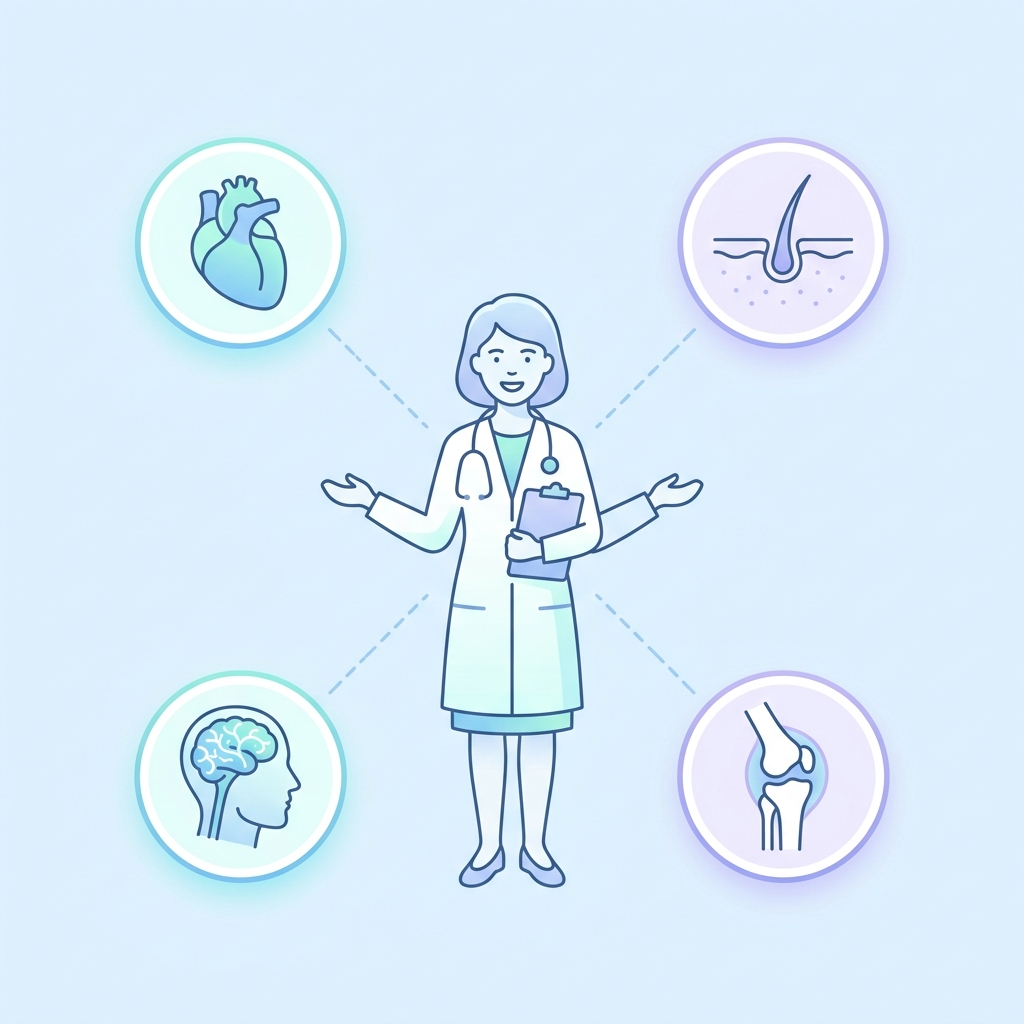
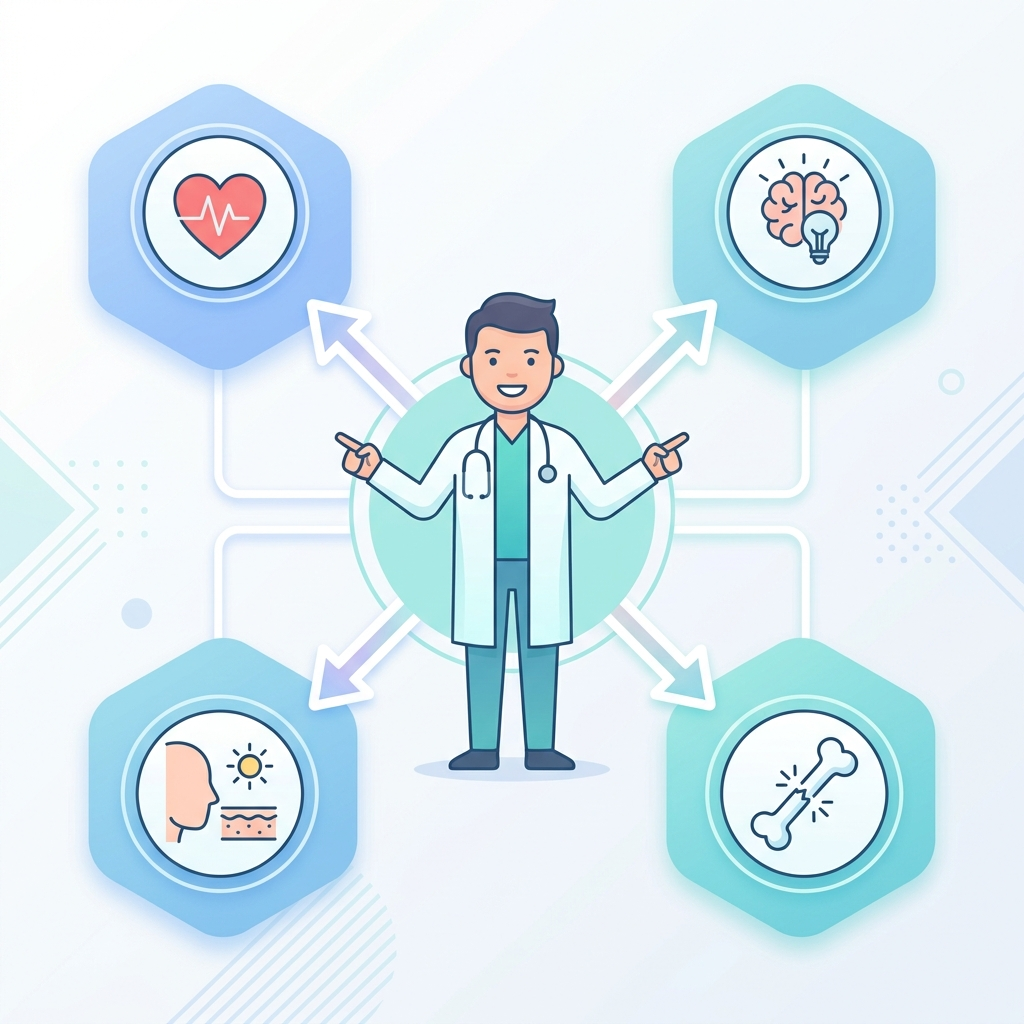
feat: update slide layouts with interactive widgets and images, and set sidebar to hidden by default

diff --git a/index.html b/index.html
@@ -39,7 +39,7 @@
   </header>
 
   <!-- Master Layout -->
-  <div class="app-container" id="main-layout">
+  <div class="app-container fullscreen-slides" id="main-layout">
     
     <!-- Presentation Viewport (Left Side) -->
     <main class="presentation-view">
@@ -88,20 +88,7 @@
             </div>
           </div>
           <div class="slide-right">
-            <div class="interactive-flow-widget">
-              <div class="flow-step" onclick="highlightWidgetStep(1)">
-                <span class="step-badge">1</span>
-                <span class="step-text">Évaluation des symptômes</span>
-              </div>
-              <div class="flow-step" onclick="highlightWidgetStep(2)">
-                <span class="step-badge">2</span>
-                <span class="step-text">Diagnostic de la maladie</span>
-              </div>
-              <div class="flow-step" onclick="highlightWidgetStep(3)">
-                <span class="step-badge">3</span>
-                <span class="step-text">Prescription & conseils</span>
-              </div>
-            </div>
+            <img src="images/doctor_responsibilities.png" alt="Médecin de famille rédigeant une ordonnance dans son bureau">
           </div>
         </section>
 
@@ -122,10 +109,7 @@
             </div>
           </div>
           <div class="slide-right">
-            <div style="font-size: 5rem; text-align: center; color: var(--color-primary); display: flex; flex-direction: column; align-items: center; justify-content: center; height:100%;">
-              <i data-lucide="shield-check" style="width: 100px; height: 100px; stroke-width: 1.5;"></i>
-              <span style="font-size: 1.25rem; font-weight: 700; color: var(--text-primary); margin-top: 1rem;">Prévenir & Guérir</span>
-            </div>
+            <img src="images/prevention_followup.png" alt="Médecin de famille administrant un vaccin à un patient">
           </div>
         </section>
 
@@ -179,10 +163,28 @@
               <p>Le temps d'attente sur la liste gouvernementale peut parfois être très long (plusieurs mois ou années).</p>
             </div>
           </div>
-          <div class="slide-right">
-            <div style="font-size: 5rem; text-align: center; color: var(--color-warning); display: flex; flex-direction: column; align-items: center; justify-content: center; height:100%;">
-              <i data-lucide="hourglass" style="width: 100px; height: 100px; stroke-width: 1.5; animation: spin 8s linear infinite;"></i>
-              <span style="font-size: 1.25rem; font-weight: 700; color: var(--text-primary); margin-top: 1rem;">Temps d'attente</span>
+          <div class="slide-right" style="flex-direction: column; gap: 0.5rem; justify-content: center;">
+            <div class="interactive-flow-widget" style="background: var(--bg-glass); border: 1px solid var(--border-glass); padding: 0.75rem; border-radius: var(--radius-md); box-shadow: var(--shadow-glass); width: 100%;">
+              <div style="font-weight: 700; color: var(--text-primary); margin-bottom: 0.5rem; font-size: 0.85rem; text-align: center; font-family: var(--font-heading);">Guichet d'accès (GAMF)</div>
+              <div style="background: var(--color-primary-light); border-radius: var(--radius-sm); padding: 0.4rem; font-size: 0.75rem; display: flex; justify-content: space-between; align-items: center; border: 1px solid var(--border-glass); margin-bottom: 0.4rem;">
+                <span style="color: var(--text-primary); font-weight: 500;">Statut d'inscription</span>
+                <span style="background: var(--color-warning); color: #78350f; font-weight: 700; padding: 2px 8px; border-radius: 10px; font-size: 0.65rem;">En attente d'attribution</span>
+              </div>
+              <div style="display: flex; flex-direction: column; gap: 0.35rem;">
+                <div style="font-size: 0.7rem; color: var(--text-muted); font-weight: 700; text-transform: uppercase; margin-bottom: 0.15rem;">Options alternatives au Québec</div>
+                <div style="display: flex; justify-content: space-between; font-size: 0.75rem; padding: 0.3rem 0.2rem; border-bottom: 1px solid var(--border-glass);">
+                  <span>Guichet d'accès (GAP)</span>
+                  <span style="color: var(--color-success); font-weight: 600;">Orientation 811</span>
+                </div>
+                <div style="display: flex; justify-content: space-between; font-size: 0.75rem; padding: 0.3rem 0.2rem; border-bottom: 1px solid var(--border-glass);">
+                  <span>Clinique Sans Rendez-vous</span>
+                  <span style="color: var(--color-accent); font-weight: 600;">Portail Clic Santé</span>
+                </div>
+                <div style="display: flex; justify-content: space-between; font-size: 0.75rem; padding: 0.3rem 0.2rem;">
+                  <span>Info-Santé / Info-Social</span>
+                  <span style="color: var(--color-primary); font-weight: 600;">Ligne 811</span>
+                </div>
+              </div>
             </div>
           </div>
         </section>
@@ -221,9 +223,28 @@
             </ul>
           </div>
           <div class="slide-right">
-            <div style="font-size: 5rem; text-align: center; color: var(--color-success); display: flex; flex-direction: column; align-items: center; justify-content: center; height:100%;">
-              <i data-lucide="users" style="width: 100px; height: 100px; stroke-width: 1.5;"></i>
-              <span style="font-size: 1.25rem; font-weight: 700; color: var(--text-primary); margin-top: 1rem;">Santé Communautaire</span>
+            <div style="display: flex; flex-direction: column; gap: 0.5rem; width: 100%;">
+              <div style="background: rgba(16, 185, 129, 0.08); border: 1px solid rgba(16, 185, 129, 0.2); border-radius: var(--radius-md); padding: 0.5rem 0.75rem; display: flex; align-items: center; gap: 0.75rem;">
+                <i data-lucide="shield" style="color: var(--color-success); width: 22px; height: 22px; flex-shrink: 0;"></i>
+                <div style="text-align: left;">
+                  <h4 style="font-size: 0.8rem; font-weight: 700; color: var(--text-primary);">Prévention précoce</h4>
+                  <p style="font-size: 0.7rem; color: var(--text-secondary);">Détecter et soigner rapidement les maladies.</p>
+                </div>
+              </div>
+              <div style="background: rgba(14, 165, 233, 0.08); border: 1px solid rgba(14, 165, 233, 0.2); border-radius: var(--radius-md); padding: 0.5rem 0.75rem; display: flex; align-items: center; gap: 0.75rem;">
+                <i data-lucide="heart-pulse" style="color: var(--color-accent); width: 22px; height: 22px; flex-shrink: 0;"></i>
+                <div style="text-align: left;">
+                  <h4 style="font-size: 0.8rem; font-weight: 700; color: var(--text-primary);">Suivi personnalisé</h4>
+                  <p style="font-size: 0.7rem; color: var(--text-secondary);">Une relation de confiance patient-médecin durable.</p>
+                </div>
+              </div>
+              <div style="background: rgba(139, 92, 246, 0.08); border: 1px solid rgba(139, 92, 246, 0.2); border-radius: var(--radius-md); padding: 0.5rem 0.75rem; display: flex; align-items: center; gap: 0.75rem;">
+                <i data-lucide="git-merge" style="color: var(--color-accent-purple); width: 22px; height: 22px; flex-shrink: 0;"></i>
+                <div style="text-align: left;">
+                  <h4 style="font-size: 0.8rem; font-weight: 700; color: var(--text-primary);">Orientation d'experts</h4>
+                  <p style="font-size: 0.7rem; color: var(--text-secondary);">Accès coordonné et efficace aux spécialistes.</p>
+                </div>
+              </div>
             </div>
           </div>
         </section>
@@ -243,9 +264,14 @@
             </div>
           </div>
           <div class="slide-right">
-            <div style="font-size: 5rem; text-align: center; color: var(--color-primary); display: flex; flex-direction: column; align-items: center; justify-content: center; height:100%;">
-              <i data-lucide="message-square" style="width: 100px; height: 100px; stroke-width: 1.5;"></i>
-              <span style="font-size: 1.15rem; font-weight: 700; color: var(--text-primary); margin-top: 1rem;">Questions / Réponses</span>
+            <div style="display: flex; flex-direction: column; align-items: center; justify-content: center; height: 100%; width: 100%;">
+              <div style="background: var(--bg-glass); border: 1px solid var(--border-glass); border-radius: var(--radius-lg); padding: 1.25rem; text-align: center; box-shadow: var(--shadow-glass); width: 100%; max-width: 260px;">
+                <div style="background: var(--color-primary-light); color: var(--color-primary); width: 50px; height: 50px; border-radius: 50%; display: flex; align-items: center; justify-content: center; margin: 0 auto 0.75rem;">
+                  <i data-lucide="help-circle" style="width: 28px; height: 28px;"></i>
+                </div>
+                <h3 style="font-family: var(--font-heading); font-size: 1.1rem; color: var(--text-primary); margin-bottom: 0.25rem;">Des questions ?</h3>
+                <p style="font-size: 0.75rem; color: var(--text-secondary); line-height: 1.4;">C'est le moment d'échanger avec votre auditoire et de partager vos impressions.</p>
+              </div>
             </div>
           </div>
         </section>

diff --git a/style.css b/style.css
@@ -197,10 +197,10 @@ header {
   left: 0;
   width: 100%;
   height: 100%;
-  padding: 3rem;
+  padding: 1.5rem 2.25rem;
   display: grid;
-  grid-template-columns: 1.2fr 0.8fr;
-  gap: 2.5rem;
+  grid-template-columns: 1.1fr 0.9fr;
+  gap: 1.5rem;
   opacity: 0;
   visibility: hidden;
   transform: translateY(20px);
@@ -238,7 +238,7 @@ header {
   display: flex;
   flex-direction: column;
   justify-content: center;
-  gap: 1.25rem;
+  gap: 0.65rem;
   overflow-y: auto;
   padding-right: 0.5rem;
 }
@@ -262,14 +262,14 @@ header {
 /* Slide Content Typography */
 .slide h2 {
   font-family: var(--font-heading);
-  font-size: 2.25rem;
+  font-size: 1.75rem;
   font-weight: 800;
-  line-height: 1.25;
+  line-height: 1.2;
   color: var(--text-primary);
   background: linear-gradient(135deg, var(--color-primary), var(--color-accent));
   -webkit-background-clip: text;
   -webkit-text-fill-color: transparent;
-  margin-bottom: 0.5rem;
+  margin-bottom: 0.25rem;
 }
 
 .slide-title-layout h2 {
@@ -298,14 +298,14 @@ header {
   list-style: none;
   display: flex;
   flex-direction: column;
-  gap: 1rem;
+  gap: 0.5rem;
 }
 
 .slide li {
   position: relative;
-  padding-left: 2rem;
-  font-size: 1.1rem;
-  line-height: 1.5;
+  padding-left: 1.5rem;
+  font-size: 0.95rem;
+  line-height: 1.4;
   color: var(--text-secondary);
 }
 
@@ -313,31 +313,31 @@ header {
   content: "";
   position: absolute;
   left: 0;
-  top: 0.5rem;
-  width: 10px;
-  height: 10px;
+  top: 0.4rem;
+  width: 8px;
+  height: 8px;
   background: linear-gradient(135deg, var(--color-primary), var(--color-accent));
   border-radius: 50%;
 }
 
 .slide-tip {
-  margin-top: 1.5rem;
-  padding: 1rem 1.25rem;
+  margin-top: 0.6rem;
+  padding: 0.5rem 1rem;
   background-color: var(--bg-secondary);
   border-left: 4px solid var(--color-accent);
   border-radius: 0 var(--radius-sm) var(--radius-sm) 0;
 }
 
 .slide-tip h4 {
-  font-size: 0.85rem;
+  font-size: 0.75rem;
   text-transform: uppercase;
   color: var(--text-muted);
   letter-spacing: 0.05em;
-  margin-bottom: 0.25rem;
+  margin-bottom: 0.15rem;
 }
 
 .slide-tip p {
-  font-size: 0.95rem;
+  font-size: 0.85rem;
   color: var(--text-secondary);
   font-style: italic;
 }
@@ -346,33 +346,33 @@ header {
 .interactive-specialists {
   display: grid;
   grid-template-columns: repeat(2, 1fr);
-  gap: 0.75rem;
+  gap: 0.5rem;
   width: 100%;
 }
 
 .spec-btn {
   background-color: var(--bg-secondary);
   border: 1px solid var(--border-glass);
-  padding: 0.75rem;
+  padding: 0.5rem;
   border-radius: var(--radius-md);
   display: flex;
   flex-direction: column;
   align-items: center;
-  gap: 0.5rem;
+  gap: 0.35rem;
   cursor: pointer;
   transition: var(--transition-fast);
   text-align: center;
 }
 
 .spec-btn svg {
-  width: 28px;
-  height: 28px;
+  width: 22px;
+  height: 22px;
   color: var(--color-primary);
   transition: var(--transition-fast);
 }
 
 .spec-btn span {
-  font-size: 0.85rem;
+  font-size: 0.8rem;
   font-weight: 600;
   color: var(--text-primary);
 }
@@ -402,10 +402,10 @@ header {
   background-color: var(--color-primary-light);
   border: 1px dashed var(--color-primary);
   border-radius: var(--radius-sm);
-  padding: 0.75rem 1rem;
-  font-size: 0.9rem;
+  padding: 0.5rem 0.75rem;
+  font-size: 0.8rem;
   color: var(--text-secondary);
-  min-height: 54px;
+  min-height: 44px;
   display: flex;
   align-items: center;
   justify-content: center;
@@ -415,19 +415,19 @@ header {
 .interactive-flow-widget {
   background: var(--bg-secondary);
   border-radius: var(--radius-md);
-  padding: 1.25rem;
+  padding: 0.75rem;
   border: 1px solid var(--border-glass);
   display: flex;
   flex-direction: column;
-  gap: 0.75rem;
+  gap: 0.5rem;
   width: 100%;
 }
 
 .flow-step {
   display: flex;
   align-items: center;
-  gap: 0.75rem;
-  padding: 0.5rem 0.75rem;
+  gap: 0.5rem;
+  padding: 0.4rem 0.6rem;
   border-radius: var(--radius-sm);
   background-color: var(--bg-primary);
   border: 1px solid var(--border-glass);
@@ -443,18 +443,18 @@ header {
 .flow-step .step-badge {
   background: var(--color-primary);
   color: white;
-  width: 24px;
-  height: 24px;
+  width: 22px;
+  height: 22px;
   border-radius: 50%;
   display: flex;
   align-items: center;
   justify-content: center;
-  font-size: 0.8rem;
+  font-size: 0.75rem;
   font-weight: 700;
 }
 
 .flow-step .step-text {
-  font-size: 0.9rem;
+  font-size: 0.85rem;
   color: var(--text-primary);
   font-weight: 500;
 }

diff --git a/app.js b/app.js
@@ -390,6 +390,9 @@ function init() {
   // Load Lucide Icons
   lucide.createIcons();
 
+  // Hide the side panel by default on startup
+  presenterSidebar.style.display = 'none';
+
   // Populate dynamic views
   updateSlides();
   initializeGlossary();
